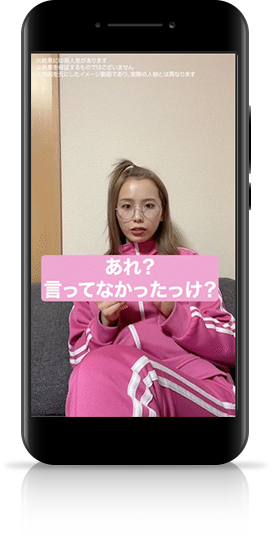
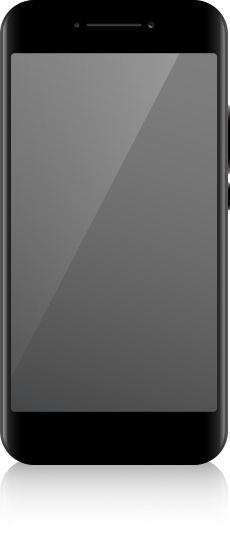
tmp

diff --git a/src/index.html b/src/index.html
@@ -21,6 +21,7 @@
       <section class="p-fv">
         <div class="p-fv__container">
           <div class="p-fv__img">
+            <img src="./images/fv_gif.gif" alt="" />
             <picture>
               <source srcset="./images/fv_pc.webp" class="lozad" width="272" height="536" />
               <img src="./images/fv_pc.png" class="lozad" width="272" height="536" alt="この472文字の原稿から作られた59秒の広告 売上 72,150,300円" />

diff --git a/src/sass/project/_fv.scss b/src/sass/project/_fv.scss
@@ -35,9 +35,23 @@
   }
 
   &__img {
+    position: relative;
+
+    > img {
+      position: absolute;
+      top: 5.1rem;
+      left: 1rem;
+      width: 20.6rem;
+    }
+
     @include mq() {
       margin: 0 auto;
       max-width: 32.9rem;
+
+      > img {
+        top: 7.3rem;
+        left: 1.5rem;
+      }
     }
   }
 
